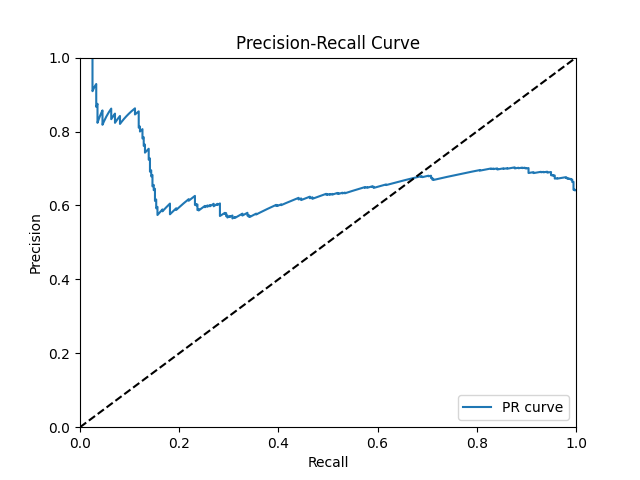
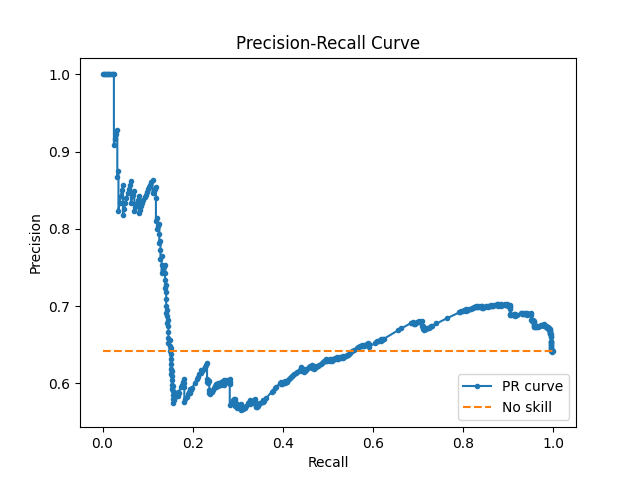
Update Figure Style

diff --git a/toolkitpkg/drawCurve.py b/toolkitpkg/drawCurve.py
@@ -3,7 +3,10 @@ import matplotlib.pyplot as plt
 from sklearn.metrics import roc_curve, auc
 from sklearn.metrics import precision_recall_curve
 
-CATEGORY = 'border'
+INDEX = 0
+CATEGORIES = ['border', 'comment', 'external']
+
+CATEGORY = CATEGORIES[INDEX]
 INPUT_FILE = f'./testing-data/{CATEGORY}.csv'
 OUTPUT_ROC = f'./output/{CATEGORY}-roc.png'
 OUTPUT_PR = f'./output/{CATEGORY}-pr.png'
@@ -20,10 +23,8 @@ def drawROC(inputFile: str, outputFile: str):
 
     # Plot ROC curve
     plt.clf()
-    plt.plot(fpr, tpr, label=f'ROC curve (area={roc_auc:0.2f})')
-    plt.plot([0, 1], [0, 1], 'k--')
-    plt.xlim([0.0, 1.0])
-    plt.ylim([0.0, 1.0])
+    plt.plot(fpr, tpr, marker='.', label=f'ROC curve (area={roc_auc:0.2f})')
+    plt.plot([0, 1], [0, 1], linestyle='--', label='No skill')
     plt.xlabel('False Positive Rate')
     plt.ylabel('True Positive Rate')
     plt.title('Receiver operating characteristic')
@@ -39,12 +40,11 @@ def drawPR(inputFile: str, outputFile: str):
     y_test, probas = df['actual'], df['predict']
 
     precision, recall, _ = precision_recall_curve(y_test, probas)
+    no_skill = len(y_test[y_test==1]) / len(y_test)
 
     plt.clf()
-    plt.plot(recall, precision, label='PR curve')
-    plt.plot([0, 1], [0, 1], 'k--')
-    plt.xlim([0.0, 1.0])
-    plt.ylim([0.0, 1.0])
+    plt.plot(recall, precision, marker='.', label='PR curve')
+    plt.plot([0, 1], [no_skill, no_skill], linestyle='--', label='No skill')
     plt.xlabel('Recall')
     plt.ylabel('Precision')
     plt.title('Precision-Recall Curve')
